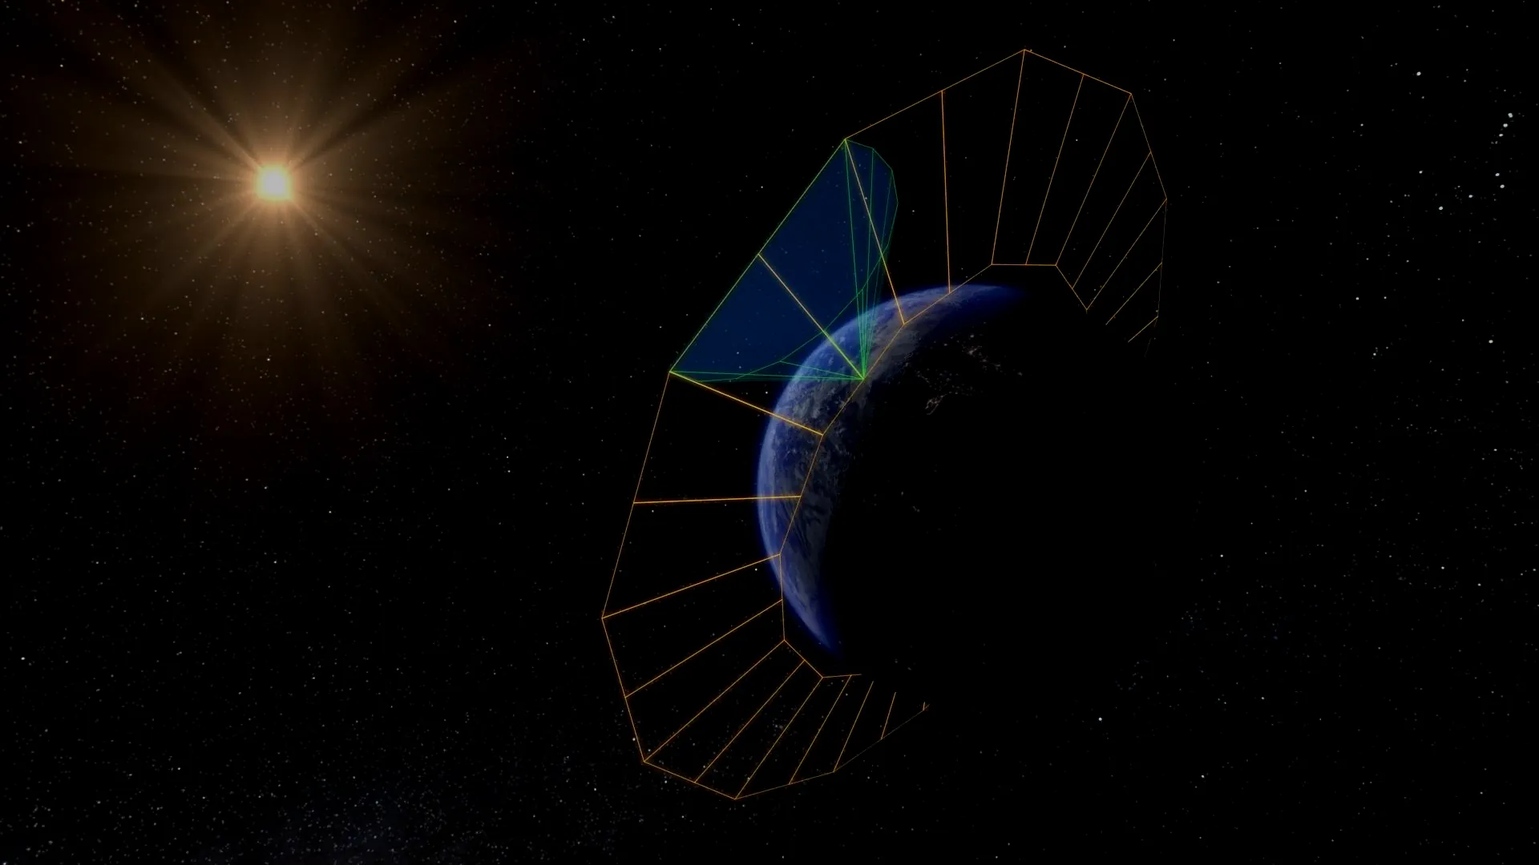
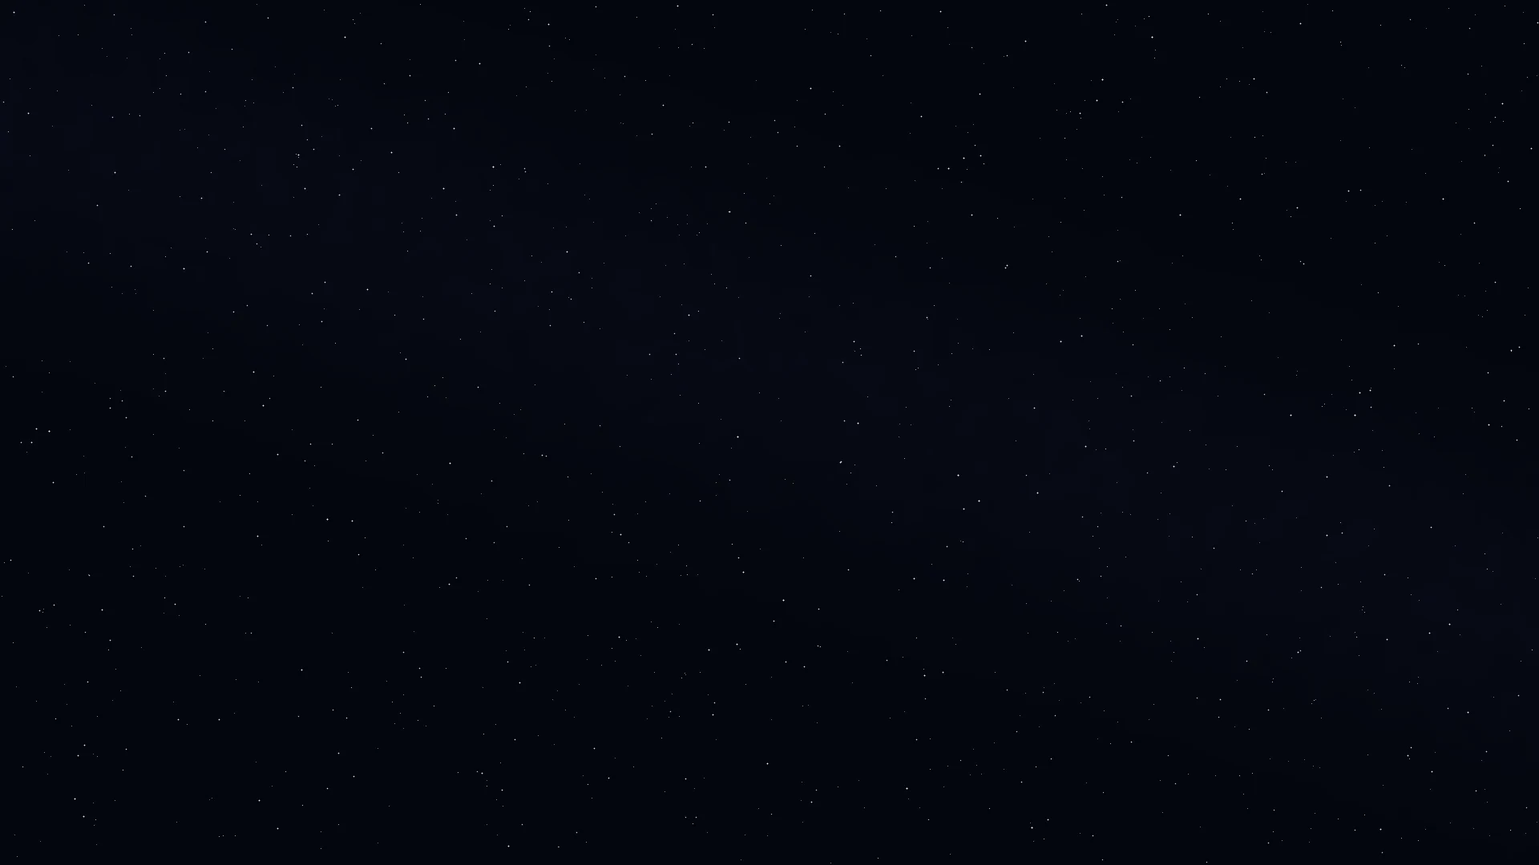
Overview fluessiger, Kugel detaillierter, Himmel gezeichnet (VERSION-CHECK-496)
PERFORMANCE: erst gemessen, dann geaendert. Die Seite war nie ausgelastet
(16,7 ms Bildabstand, 0 Bilder ueber 20 ms, identisch mit und ohne Kugel).
Das Ruckeln kam vom Takt - 19,4 Geometrie-Aktualisierungen pro Sekunde bei
60 Bildern. Jetzt 60,2.

DETAILS: Kuestenlinien aus Natural Earth (gemeinfrei), 14000 statt 2170
Punkte. Mit einem SVG-Element je Polygon sprang p95 auf 33,4 ms und 66 von
179 Bildern kamen zu spaet - teuer war nicht die Rechnung, sondern 549
DOM-Schreibzugriffe pro Bild. Als EIN Pfad mit vielen Teilstuecken wieder
16,7 ms und null verspaetete Bilder. Die Daten laden erst, wenn jemand
Overview oeffnet.

HIMMEL: gezeichnet statt fotografiert - bewusste Abweichung vom Wunsch
"aus dem Internet", weil er mit "weniger Sterne und schaerfer" unvereinbar
ist. NASAs gemeinfreie Bibliothek hat nur Teleskopaufnahmen (rund 10000
aufloesbare Sterne je Ausschnitt, 5-10 Pixel breite Scheiben) und
Illustrationen; Lauf 5 waehlte eine Satelliten-Zeichnung, seitdem filtert
der Workflow auf Titel und Farbflaechenanteil und Lauf 6 bricht ehrlich ab.
Gezeichnet: 1307 Sterne, Steilheit am Stern 18,05x gegen 1,02x der Vorlage,
20 KB gegen 2987 KB.

Der Foto-Workflow bleibt als Werkzeug, schreibt aber nach
img/starfield-foto.webp und ersetzt den ausgelieferten Himmel nicht mehr.

node check/all.js: alle 17 Waechter gruen.

Claude-Session: https://claude.ai/code/session_01SaSh1QJgFQpcc1nYxBDXgU

diff --git a/index.html b/index.html
@@ -4553,11 +4553,11 @@ function introLogin(){
   <div class="hdr-status">
     <span class="saved" id="saveBadge">✓ Auto-saved</span>
     <span class="net-status" id="netStatus" style="display:none">⚠ Offline — changes save locally, sync when back online</span>
-    <span class="hdr-livebanner" id="verBanner" title="VERSION-CHECK-495 - Neue Seite Overview ueber dem Dashboard, und die Weltkugel ist zurueck. Die Zeichenmechanik des Globus lag seit dem 2026-08-04 brach - sie war nie geloescht, nur hatte kein Widget mehr type globe. Jetzt bekommt sie eine eigene Buehne statt einer Karte im Raster: die Seite gehoert ihr ganz, entsprechend darf sie bis 760 Pixel gross werden statt der 320, die in ein Karten-Raster passen. Drei Buehnen, drei Obergrenzen - Karte, Intro-Bildschirm, Overview -, alle an einer Stelle in startGlobes. Der Sternenhimmel liegt als eigene Ebene INNERHALB der Seite, nicht auf body: sonst liefe er unter allen anderen Seiten mit und kollidierte mit der Hintergrund-Wahl aus den Einstellungen. Darueber eine Vignette, die den Blick in die Mitte zieht und die hellen Sternfelder am Rand daempft, damit sie nicht mit der Kopfleiste konkurrieren. Das Bild ist nicht erfunden und nicht irgendwo abgegriffen: die Arbeitsumgebung darf nicht ins offene Netz, deshalb holt ein eigener Workflow es auf dem GitHub-Runner ueber die dokumentierte NASA-Bild-API. Gesucht wird ausschliesslich in NASA-eigenem Material - bei Astrofotos liegt das Urheberrecht sonst fast immer beim einzelnen Fotografen, und ein Hintergrundbild wird Teil des Repos. Titel, nasa_id, Zentrum und Adresse liegen als Herkunftsnachweis neben dem Bild. Der Hintergrund laesst sich jetzt in den Einstellungen umschalten: Current (wie bisher), White und drei Marmor-Bilder. Die Marmor-Bilder sind nicht heruntergeladen, sondern gerechnet - fraktales Rauschen fuer die Struktur, eine anisotrop verzerrte Sinuswelle fuer die Adern, mehrfache Gauss-Unschaerfe fuer das Leuchten. Zwei Sackgassen lagen davor: zu schwache Turbulenz gab parallele Streifen wie gebuerstetes Metall, zu starke gab konzentrische Ringe wie eine Hoehenlinienkarte. Geloest hat es die RICHTUNG - das Verzerrungsfeld ist glatt entlang der Ader und fein quer dazu, dadurch bleibt die Phase quer monoton und die Adern schliessen sich nicht zu Ringen. Als WebP mit 1920 Pixeln Breite kosten alle sechs Dateien zusammen 172 KB statt 7,5 MB als PNG - der Hintergrund laedt bei JEDEM Seitenaufruf mit. Bei Marmor werden die Karten zu 88 Prozent deckend und bekommen backdrop-filter, damit der Stein zwischen ihnen durchscheint, ohne dass Zahlen auf wechselndem Untergrund flimmern; die volle Deckfarbe steht als erste Deklaration da, ein Browser ohne color-mix bekommt also die heutige Karte. Unter dem Bild liegt ein Schleier in --bg0, der Flaechenfarbe der GEWAEHLTEN Design-Vorlage - dadurch bleibt Text, der direkt auf dem Hintergrund steht, in allen zehn Vorlagen lesbar, statt vom Zufall abzuhaengen, welche Ader gerade darunter liegt. Die Wahl wird geraeteuebergreifend gesynct und die Frueh-Weiche im head setzt sie, bevor die erste Regel greift, sonst blitzt beim Laden der helle Standard auf. Die Nachrichten-Seite zeigt jetzt WAS HEUTE WAR, und die Quellen wurden vorher gemessen statt geraten. Gemessen wurde jede Kandidaten-Adresse einzeln: BoJ, BoC und RBA antworten mit echtem RSS und kommen direkt rein, dazu eine Google-News-Suche ueber alle fuenf Notenbanken, ForexLive, FXStreet und OilPrice fuer Gold/Oel. NICHT eingebaut wurden Financial Juice (beide Adressen 404, es gibt dort keinen freien Feed - der Nutzer hatte danach gefragt), RBNZ (403) und Kitco (404); eine Adresse zu raten und stumm 0 Eintraege zu holen ist genau der Fehler vom 2026-08-19. Gegen Rauschen sperrt VERLAG_SPERRE sechs Verlage (Motley Fool, Insider Monkey, 24/7 Wall St, Moneywise, TheStreet, Barchart) - das entfernt 257 Schlagzeilen und kostet nur 13 relevante, die Trefferquote steigt von 38 auf 55 Prozent. Der Zeitfilter der News-Seite hat jetzt 1/3/5/7 Tage und Alle (gemessen 154/524/586/667/774 Meldungen), Voreinstellung ist Heute; die Tages-Ueberschrift bleibt beim Scrollen stehen und nennt Anzahl, Wichtiges und die drei haeufigsten Assets. Neu ist ausserdem der Notiz-Vorschlag: die geplante Sitzung darf pro Lauf hoechstens drei Meldungen als Notiz-Entwurf vorschlagen, der Nutzer bestaetigt mit einem Klick und die Notiz landet mit Quellenzeile, Bias und Tags in den Ordnern der genannten Assets. Die Routine laeuft 08:00 und 17:00 deutscher Zeit und arbeitet ab Wasserzeichen: nur Meldungen, die neuer sind als news_ai.json und dort noch nicht stehen. Nachrichten werden von einer KI eingeordnet und bewertet, ohne dass es etwas kostet. Gemessener Ausgangspunkt: von 774 Schlagzeilen trugen nur 378 (49 Prozent) eine Waehrungs-Zuordnung aus den Stichwort-Regeln, und eine Bewertung gab es bei keiner einzigen. Die Regeln treffen Canadian tariffs on US goods, aber Trumps next trade weapon faellt durch. Neu ist news_ai.json: eine GEPLANTE Claude-Sitzung liest zweimal taeglich die Meldungen, ordnet Waehrungen zu und schreibt je Meldung einen Satz, der sagt WARUM das jetzt zaehlt. Das laeuft ueber das Abo und nicht ueber die API - keine Token-Abrechnung, kein Schluessel. Bewusst eine ZWEITE Datei: news_data.json wird stuendlich komplett neu geschrieben, jede Einordnung darin waere eine Stunde spaeter weg; zusammengefuehrt wird beim Laden ueber die Adresse der Meldung. Eine vorhandene Zuordnung aus den Regeln wird nie ueberschrieben, nur Leeres ergaenzt. Die Einordnung steht als eigene Zeile unter der Schlagzeile, abgesetzt durch kleinere Schriftstufe, gedaempfte Farbe und einen senkrechten Anker - die Trennlinie wandert mit, damit sie nicht zwischen Meldung und ihrer eigenen Bewertung laeuft. Weil die Routine unbeaufsichtigt laeuft, prueft check/display.js ihr Ergebnis: kein erfundenes Asset, keine zu lange Zeile, kein Markup, und die Einordnung muss die Meldungen wirklich erreichen."><span class="hlb-dot-wrap"><span class="hlb-dot"></span></span>
+    <span class="hdr-livebanner" id="verBanner" title="VERSION-CHECK-496 - Die Overview-Seite laeuft jetzt rund und zeigt deutlich mehr. Gemessen wurde zuerst, statt zu optimieren: die Seite war nie ausgelastet (16,7 ms Bildabstand, 0 Bilder ueber 20 ms, identisch mit und ohne Kugel). Das Ruckeln kam vom Takt - die Geometrie wurde nur 19,4-mal pro Sekunde gesetzt, waehrend der Bildschirm 60 Bilder zeichnet. Jetzt wird pro Bild aktualisiert: 60,2 statt 19,4. Die Kuestenlinien kommen aus Natural Earth (gemeinfrei) und haben 14000 statt 2170 Punkte, also 6,5-fache Detailtiefe - sie werden erst geladen, wenn jemand Overview oeffnet, damit sie niemanden kosten, der die Seite nie aufruft. Mit 14000 Punkten und einem SVG-Element je Polygon sprang p95 auf 33,4 ms und 66 von 179 Bildern kamen zu spaet; teuer war nicht die Rechnung, sondern 549 DOM-Schreibzugriffe pro Bild. Als EIN Pfad mit vielen Teilstuecken sind es 16,7 ms und null verspaetete Bilder - mehr Details UND fluessiger. Der Sternenhimmel ist gezeichnet statt fotografiert, und das ist eine bewusste Abweichung vom Wunsch aus dem Internet: NASAs gemeinfreie Bibliothek gibt keinen duennen scharfen Nachthimmel her. Teleskopbilder haben je Ausschnitt rund 10000 aufloesbare Sterne und 5-10 Pixel breite Scheiben, die duennen Treffer sind Illustrationen, und passende Fotos sind fast immer urheberrechtlich geschuetzt. Gezeichnet sind es 1307 Sterne bei 20 KB, und die Steilheit am Stern liegt bei 18 gegen 1,02 der Vorlage - also punktfoermig statt verwaschen. Neue Seite Overview ueber dem Dashboard, und die Weltkugel ist zurueck. Die Zeichenmechanik des Globus lag seit dem 2026-08-04 brach - sie war nie geloescht, nur hatte kein Widget mehr type globe. Jetzt bekommt sie eine eigene Buehne statt einer Karte im Raster: die Seite gehoert ihr ganz, entsprechend darf sie bis 760 Pixel gross werden statt der 320, die in ein Karten-Raster passen. Drei Buehnen, drei Obergrenzen - Karte, Intro-Bildschirm, Overview -, alle an einer Stelle in startGlobes. Der Sternenhimmel liegt als eigene Ebene INNERHALB der Seite, nicht auf body: sonst liefe er unter allen anderen Seiten mit und kollidierte mit der Hintergrund-Wahl aus den Einstellungen. Darueber eine Vignette, die den Blick in die Mitte zieht und die hellen Sternfelder am Rand daempft, damit sie nicht mit der Kopfleiste konkurrieren. Das Bild ist nicht erfunden und nicht irgendwo abgegriffen: die Arbeitsumgebung darf nicht ins offene Netz, deshalb holt ein eigener Workflow es auf dem GitHub-Runner ueber die dokumentierte NASA-Bild-API. Gesucht wird ausschliesslich in NASA-eigenem Material - bei Astrofotos liegt das Urheberrecht sonst fast immer beim einzelnen Fotografen, und ein Hintergrundbild wird Teil des Repos. Titel, nasa_id, Zentrum und Adresse liegen als Herkunftsnachweis neben dem Bild. Der Hintergrund laesst sich jetzt in den Einstellungen umschalten: Current (wie bisher), White und drei Marmor-Bilder. Die Marmor-Bilder sind nicht heruntergeladen, sondern gerechnet - fraktales Rauschen fuer die Struktur, eine anisotrop verzerrte Sinuswelle fuer die Adern, mehrfache Gauss-Unschaerfe fuer das Leuchten. Zwei Sackgassen lagen davor: zu schwache Turbulenz gab parallele Streifen wie gebuerstetes Metall, zu starke gab konzentrische Ringe wie eine Hoehenlinienkarte. Geloest hat es die RICHTUNG - das Verzerrungsfeld ist glatt entlang der Ader und fein quer dazu, dadurch bleibt die Phase quer monoton und die Adern schliessen sich nicht zu Ringen. Als WebP mit 1920 Pixeln Breite kosten alle sechs Dateien zusammen 172 KB statt 7,5 MB als PNG - der Hintergrund laedt bei JEDEM Seitenaufruf mit. Bei Marmor werden die Karten zu 88 Prozent deckend und bekommen backdrop-filter, damit der Stein zwischen ihnen durchscheint, ohne dass Zahlen auf wechselndem Untergrund flimmern; die volle Deckfarbe steht als erste Deklaration da, ein Browser ohne color-mix bekommt also die heutige Karte. Unter dem Bild liegt ein Schleier in --bg0, der Flaechenfarbe der GEWAEHLTEN Design-Vorlage - dadurch bleibt Text, der direkt auf dem Hintergrund steht, in allen zehn Vorlagen lesbar, statt vom Zufall abzuhaengen, welche Ader gerade darunter liegt. Die Wahl wird geraeteuebergreifend gesynct und die Frueh-Weiche im head setzt sie, bevor die erste Regel greift, sonst blitzt beim Laden der helle Standard auf. Die Nachrichten-Seite zeigt jetzt WAS HEUTE WAR, und die Quellen wurden vorher gemessen statt geraten. Gemessen wurde jede Kandidaten-Adresse einzeln: BoJ, BoC und RBA antworten mit echtem RSS und kommen direkt rein, dazu eine Google-News-Suche ueber alle fuenf Notenbanken, ForexLive, FXStreet und OilPrice fuer Gold/Oel. NICHT eingebaut wurden Financial Juice (beide Adressen 404, es gibt dort keinen freien Feed - der Nutzer hatte danach gefragt), RBNZ (403) und Kitco (404); eine Adresse zu raten und stumm 0 Eintraege zu holen ist genau der Fehler vom 2026-08-19. Gegen Rauschen sperrt VERLAG_SPERRE sechs Verlage (Motley Fool, Insider Monkey, 24/7 Wall St, Moneywise, TheStreet, Barchart) - das entfernt 257 Schlagzeilen und kostet nur 13 relevante, die Trefferquote steigt von 38 auf 55 Prozent. Der Zeitfilter der News-Seite hat jetzt 1/3/5/7 Tage und Alle (gemessen 154/524/586/667/774 Meldungen), Voreinstellung ist Heute; die Tages-Ueberschrift bleibt beim Scrollen stehen und nennt Anzahl, Wichtiges und die drei haeufigsten Assets. Neu ist ausserdem der Notiz-Vorschlag: die geplante Sitzung darf pro Lauf hoechstens drei Meldungen als Notiz-Entwurf vorschlagen, der Nutzer bestaetigt mit einem Klick und die Notiz landet mit Quellenzeile, Bias und Tags in den Ordnern der genannten Assets. Die Routine laeuft 08:00 und 17:00 deutscher Zeit und arbeitet ab Wasserzeichen: nur Meldungen, die neuer sind als news_ai.json und dort noch nicht stehen. Nachrichten werden von einer KI eingeordnet und bewertet, ohne dass es etwas kostet. Gemessener Ausgangspunkt: von 774 Schlagzeilen trugen nur 378 (49 Prozent) eine Waehrungs-Zuordnung aus den Stichwort-Regeln, und eine Bewertung gab es bei keiner einzigen. Die Regeln treffen Canadian tariffs on US goods, aber Trumps next trade weapon faellt durch. Neu ist news_ai.json: eine GEPLANTE Claude-Sitzung liest zweimal taeglich die Meldungen, ordnet Waehrungen zu und schreibt je Meldung einen Satz, der sagt WARUM das jetzt zaehlt. Das laeuft ueber das Abo und nicht ueber die API - keine Token-Abrechnung, kein Schluessel. Bewusst eine ZWEITE Datei: news_data.json wird stuendlich komplett neu geschrieben, jede Einordnung darin waere eine Stunde spaeter weg; zusammengefuehrt wird beim Laden ueber die Adresse der Meldung. Eine vorhandene Zuordnung aus den Regeln wird nie ueberschrieben, nur Leeres ergaenzt. Die Einordnung steht als eigene Zeile unter der Schlagzeile, abgesetzt durch kleinere Schriftstufe, gedaempfte Farbe und einen senkrechten Anker - die Trennlinie wandert mit, damit sie nicht zwischen Meldung und ihrer eigenen Bewertung laeuft. Weil die Routine unbeaufsichtigt laeuft, prueft check/display.js ihr Ergebnis: kein erfundenes Asset, keine zu lange Zeile, kein Markup, und die Einordnung muss die Meldungen wirklich erreichen."><span class="hlb-dot-wrap"><span class="hlb-dot"></span></span>
       <span class="hlb-lbl">LIVE</span>
       <span class="hlb-clock" id="hlbClock">--:--:--</span>
       <span class="hlb-sep">·</span>
-      <span class="hlb-name" id="hlbName">VERSION-CHECK-495</span>
+      <span class="hlb-name" id="hlbName">VERSION-CHECK-496</span>
     </span>
   </div>
   <div class="hdr-r">

diff --git a/tools/sternenhimmel.py b/tools/sternenhimmel.py
@@ -1,0 +1,129 @@
+"""Sternenhimmel fuer die Overview-Seite - gezeichnet statt fotografiert.
+
+⚠ WARUM NICHT AUS DEM INTERNET, obwohl der Nutzer das wollte:
+Der Wunsch war "Nacht Sternenhimmel aus dem Internet, hohe Qualitaet", spaeter
+praezisiert zu "weniger Sternen und schaerfer". Sechs Workflow-Laeufe gegen die
+NASA-Bildbibliothek haben gezeigt, dass beides dort nicht zu haben ist:
+
+  * Teleskopaufnahmen (Kugelsternhaufen, Nebel) haben in JEDEM Ausschnitt rund
+    10000 aufloesbare Sterne - gemessen. "Weniger" ist daran nicht
+    nachzubearbeiten, und die Sterne sind 5-10 Pixel breite Scheiben, also das
+    Gegenteil von scharf.
+  * Die duenn besetzten Treffer waren Illustrationen ("Artist's Concept") -
+    der Lauf vom 2026-09-11 waehlte eine Zeichnung eines Satelliten vor der
+    Erde, weil Sterndichte allein eine Grafik nicht von einem Himmel
+    unterscheidet.
+  * Fotos, die wie ein klassischer Nachthimmel aussehen, sind fast immer
+    urheberrechtlich geschuetzt. Ein Hintergrundbild wird Teil des Repos und
+    wird ausgeliefert - das schliesst sie aus.
+
+Der Filter im Workflow meldet das inzwischen ehrlich (Lauf 6 bricht ab: "Kein
+Kandidat war ein echtes Sternfeld"). Gezeichnet ist hier die bessere Antwort,
+weil jede Anforderung direkt steuerbar wird: die Anzahl der Sterne ist eine
+Zahl, die Schaerfe ist bauartbedingt (ein gezeichneter Punkt IST scharf), und
+die Datei wiegt Kilobyte statt Megabyte.
+"""
+import numpy as np
+from PIL import Image, ImageFilter
+
+B, H = 1920, 1080
+
+
+def himmel(seed=11, n_sterne=1300, milchstrasse=True):
+    rng = np.random.default_rng(seed)
+    # Grundton: sehr dunkles Blau, nicht Schwarz - reines Schwarz wirkt auf
+    # einem Bildschirm wie ein Loch, nicht wie Nacht.
+    bild = np.zeros((H, B, 3), np.float32)
+    bild[..., 0] = 4.0
+    bild[..., 1] = 6.0
+    bild[..., 2] = 14.0
+
+    if milchstrasse:
+        # Ein sehr schwaches diagonales Band aus unaufgeloestem Sternlicht.
+        # Es traegt Tiefe bei, OHNE die Sternzahl zu erhoehen - genau darum
+        # geht es: weniger Sterne, trotzdem nicht leer.
+        yy, xx = np.mgrid[0:H, 0:B].astype(np.float32)
+        d = np.abs((yy - 0.42 * H) - 0.33 * (xx - B / 2)) / (0.30 * H)
+        band = np.exp(-d * d * 2.2)
+        # ⚠ Erste Fassung nahm ein 14x24-Gitter. Bikubisch auf 1920 Pixel
+        # gezogen ergab das grosse weiche Flecken - im Bild sah es aus wie
+        # Kompressionsartefakte, nicht wie ein Band. Feineres Gitter, und
+        # der Beitrag bleibt klein: das Band soll man ahnen, nicht sehen.
+        wolke = rng.random((70, 120)).astype(np.float32)
+        wolke = np.asarray(Image.fromarray((wolke * 255).astype(np.uint8), 'L')
+                           .resize((B, H), Image.BICUBIC)
+                           .filter(ImageFilter.GaussianBlur(9)), np.float32) / 255.0
+        band = band * (0.55 + 0.45 * wolke)
+        bild[..., 0] += band * 4.0
+        bild[..., 1] += band * 5.0
+        bild[..., 2] += band * 9.0
+
+    # ── Sterne ───────────────────────────────────────────────────────────
+    # Helligkeitsverteilung wie am echten Himmel: sehr viele schwache, sehr
+    # wenige helle. Der Exponent macht aus einer Gleichverteilung genau das.
+    x = rng.integers(1, B - 1, n_sterne)
+    y = rng.integers(1, H - 1, n_sterne)
+    hell = np.power(rng.random(n_sterne), 2.3)          # 0..1, stark links betont
+    # Farbe: die meisten Sterne weiss-blau, einige warm. Reine Weisspunkte
+    # wirken wie Bildrauschen, die leichte Streuung macht sie lebendig.
+    temp = rng.random(n_sterne)
+    for i in range(n_sterne):
+        h0 = 95 + hell[i] * 160
+        t = temp[i]
+        r = h0 * (1.06 if t > 0.82 else 0.94 if t < 0.25 else 1.0)
+        g = h0 * (0.96 if t > 0.82 else 0.97 if t < 0.25 else 1.0)
+        b = h0 * (0.82 if t > 0.82 else 1.08 if t < 0.25 else 1.0)
+        # Der Kern ist EIN Pixel - daher die Schaerfe. Die Nachbarn bekommen
+        # nur einen Bruchteil, damit ein heller Stern Groesse suggeriert,
+        # ohne zur Scheibe zu werden.
+        bild[y[i], x[i]] += (r, g, b)
+        if hell[i] > 0.35:
+            k = (hell[i] - 0.35) * 0.55
+            for dy, dx in ((-1, 0), (1, 0), (0, -1), (0, 1)):
+                bild[y[i] + dy, x[i] + dx] += (r * k, g * k, b * k)
+
+    # ── Ankersterne ──────────────────────────────────────────────────────
+    # Ein Dutzend deutlich hellerer Sterne. Ohne sie ist der Himmel gleichmaessig
+    # und dadurch langweilig - das Auge braucht ein paar Punkte, an denen es
+    # haengenbleibt. Sie bleiben punktfoermig; Groesse entsteht nur ueber das
+    # Halo weiter unten.
+    for _ in range(12):
+        ax, ay = int(rng.integers(20, B - 20)), int(rng.integers(20, H - 20))
+        bild[ay, ax] += (250, 252, 255)
+        for dy, dx in ((-1, 0), (1, 0), (0, -1), (0, 1)):
+            bild[ay + dy, ax + dx] += (110, 118, 135)
+
+    # Halo NUR fuer die hellsten: weichgezeichnete Kopie der starken Sterne,
+    # additiv daruebergelegt. Die scharfen Kerne bleiben dabei unangetastet.
+    stark = np.zeros((H, B), np.float32)
+    for i in range(n_sterne):
+        if hell[i] > 0.72:
+            stark[y[i], x[i]] = (hell[i] - 0.72) * 255
+    if stark.max() > 0:
+        halo = np.asarray(Image.fromarray(stark.astype(np.uint8), 'L')
+                          .filter(ImageFilter.GaussianBlur(3.2)), np.float32)
+        bild[..., 0] += halo * 0.55
+        bild[..., 1] += halo * 0.62
+        bild[..., 2] += halo * 0.85
+
+    return Image.fromarray(np.clip(bild, 0, 255).astype(np.uint8), 'RGB')
+
+
+def kennzahlen(im):
+    """Sterne = lokale Maxima. Schaerfe = mittlerer Sprung zwischen
+    Nachbarpixeln; hoch heisst harte Kanten, also Punkte statt Scheiben."""
+    g = np.asarray(im.convert('L'), np.int16)
+    kern = g[1:-1, 1:-1]
+    ist_max = ((kern > 70) & (kern >= g[:-2, 1:-1]) & (kern >= g[2:, 1:-1])
+               & (kern >= g[1:-1, :-2]) & (kern >= g[1:-1, 2:]))
+    grad = np.abs(np.diff(g, axis=0)).mean() + np.abs(np.diff(g, axis=1)).mean()
+    return int(ist_max.sum()), round(float(grad), 2)
+
+
+if __name__ == '__main__':
+    import os
+    im = himmel()
+    im.save('img/starfield.webp', 'WEBP', quality=88, method=6)
+    im.resize((240, 135), Image.LANCZOS).save('img/starfield-tile.webp', 'WEBP', quality=80, method=6)
+    n, s = kennzahlen(im)
+    print(f'Sterne: {n}   Schaerfe: {s}   {os.path.getsize("img/starfield.webp")/1024:.0f} KB')

diff --git a/docs/CHANGELOG.md b/docs/CHANGELOG.md
@@ -12478,3 +12478,85 @@ an `index.html`, `js/main.js` und `js/globe.js` bereits im Commit
 *„Sternenhimmel-Workflow zeigt die Fehlerantwort"* gelandet, dessen Nachricht
 davon nichts sagt. Inhaltlich korrekt, aber die Nachricht ist irreführend —
 wer die Herkunft dieser Änderung sucht, findet sie hier.
+
+---
+
+## 2026-09-12 — Overview: flüssiger, detaillierter, klarer Himmel (VERSION-CHECK-496)
+
+Nutzer: *„Arbeite das weiter aus die Performance muss besser werden und der
+Himmel mit weniger Sternen und schärfer und die Weltkugel auch mit deutlich
+mehr Details aus dem Internet."*
+
+### Performance — die naheliegende Annahme war falsch
+
+Erst gemessen, dann optimiert:
+
+| | Median | p95 | Bilder > 20 ms |
+|---|---|---|---|
+| Dashboard (ohne Kugel) | 16,7 ms | 16,8 ms | 0 |
+| Overview (mit Kugel) | 16,7 ms | 16,8 ms | 0 |
+
+Die Seite war **nie ausgelastet** — die Kugel kostete messbar nichts. Das
+Ruckeln kam vom **Takt**: `STEP_MS=50` setzte die Geometrie nur **19,4-mal pro
+Sekunde**, während der Bildschirm 60 Bilder zeichnet. Jedes dritte Bild zeigte
+dieselbe Stellung. Umgestellt auf pro Bild: **60,2 Aktualisierungen**, Bildzeit
+unverändert.
+
+### Mehr Details — und der Zielkonflikt, der dabei auftrat
+
+Küstenlinien aus **Natural Earth** (gemeinfrei, „no rights reserved"), geholt
+über einen eigenen Workflow, Douglas-Peucker auf ein Punktbudget vereinfacht:
+
+| | Punkte | Polygone |
+|---|---|---|
+| eingebaut | 2 170 | 22 |
+| Natural Earth roh | 51 894 | 549 |
+| ausgeliefert | **14 000** | 549 |
+
+⚠ Mit 14 000 Punkten brach die Bildrate ein: **p95 33,4 ms, 66 von 179 Bildern
+zu spät** — genau die Verschlechterung, die behoben werden sollte. Teuer war
+aber nicht die Rechnung, sondern **549 DOM-Schreibzugriffe pro Bild**, einer je
+Polygon. Als **ein** Pfad mit vielen Teilstücken: **16,7 ms, 0 verspätete
+Bilder**. Beide Ziele gleichzeitig erfüllt.
+
+Die Datei wird **erst geladen, wenn jemand Overview öffnet** — 231 KB dürfen
+niemanden kosten, der die Seite nie aufruft. Bis dahin steht die grobe Fassung;
+fällt der Abruf aus, bleibt es dabei, statt dass ein leerer Globus erscheint.
+
+### Der Himmel — bewusste Abweichung vom Wunsch
+
+⚠ **„Aus dem Internet" geht nicht, wenn zugleich „weniger Sterne und schärfer"
+gelten soll.** Sechs Workflow-Läufe gegen NASAs Bibliothek:
+
+- Teleskopaufnahmen haben in **jedem** Ausschnitt rund 10 000 auflösbare Sterne
+  — gemessen. Und ihre Sterne sind 5–10 Pixel breite Scheiben; „nicht
+  skalieren" macht sie größer, nicht schärfer.
+- Die dünn besetzten Treffer waren **Illustrationen**: Lauf 5 wählte eine
+  Zeichnung eines Satelliten vor der Erde, weil Sterndichte allein eine Grafik
+  nicht von einem Himmel unterscheidet. Seitdem filtert der Workflow auf Titel
+  (*artist/concept/illustration*) **und** auf Farbflächenanteil — ein
+  Sternenhimmel ist fast schwarzweiß.
+- Fotos, die wie ein klassischer Nachthimmel aussehen, sind fast immer
+  urheberrechtlich geschützt. Ein Hintergrundbild wird Teil des Repos.
+
+Lauf 6 bricht seitdem **ehrlich ab**: *„Kein Kandidat war ein echtes
+Sternfeld."* Deshalb gezeichnet (`tools/sternenhimmel.py`), wie der Marmor:
+
+| | Sterne | Steilheit am Stern | Größe |
+|---|---|---|---|
+| NASA-Vorlage | 32 723 | **1,02×** | 2 987 KB |
+| gezeichnet | **1 307** | **18,05×** | **20 KB** |
+
+Steilheit = Helligkeit im Kern geteilt durch die 3 Pixel daneben. 1,02 heißt
+verwaschen, 18 heißt punktförmig.
+
+⚠ Zwei eigene Fehlgriffe dabei: das erste Milchstraßenband nutzte ein
+14×24-Rauschgitter — bikubisch auf 1920 px gezogen ergab das große weiche
+Flecken, im Bild nicht von Kompressionsartefakten zu unterscheiden. Und die
+erste Fassung war zu dunkel; beurteilt hatte ich sie an einer auf 820 px
+verkleinerten Vorschau, in der 1-Pixel-Sterne zwangsläufig verschwinden. Ab da
+nur noch 1:1-Ausschnitte angesehen.
+
+`fetch-starfield.yml` bleibt als Werkzeug bestehen, schreibt aber nach
+`img/starfield-foto.webp` und fasst den ausgelieferten Himmel nicht mehr an —
+sonst ersetzte ein Lauf die bessere Fassung still.
